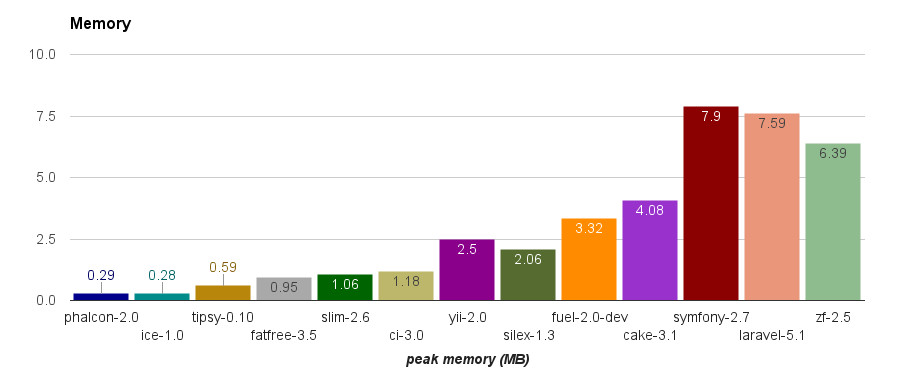
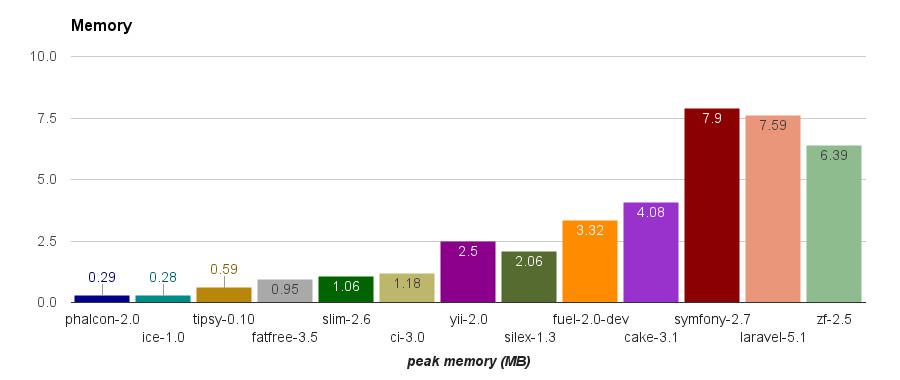
Benchmark, make sure images for v3 are loaded

diff --git a/app/modules/doc/views/pl/introduction/benchmark.md b/app/modules/doc/views/pl/introduction/benchmark.md
@@ -9,7 +9,7 @@ Sprzęt użyty do testowania jest następujący:
 * Dysk: SSD 120GB odczyt 540MB/s zapis 480MB/s
 
 #### Oprogramowanie
-* System operacyjny: openSUSE Tubmleweed 20151123 64-bit
+* System operacyjny: openSUSE Tubmleweed 20151128 64-bit
 * Kernel: 4.3.0
 * Serwer www: Nginx 1.8.0
 * PHP-FPM: 5.6.15
@@ -20,33 +20,33 @@ Sprzęt użyty do testowania jest następujący:
 ### Wyniki
 ##### Żądania na sekundę
 
-![RPS](/img/doc/benchmark.jpg)
+![RPS](/img/doc/benchmark.jpg?v3)
 
 ##### Użyta pamięć
 
-![Memory](/img/doc/benchmark2.jpg)
+![Memory](/img/doc/benchmark2.jpg?v3)
 
 ##### Czas wykonywania
 
-![Time](/img/doc/benchmark3.jpg)
+![Time](/img/doc/benchmark3.jpg?v3)
 
 ##### Dołączonych plików
 
-![Files](/img/doc/benchmark4.jpg)
+![Files](/img/doc/benchmark4.jpg?v3)
 
 ### Table
 |framework          |requests per second|relative|peak memory|relative|files|relative|
 |-------------------|------------------:|-------:|----------:|-------:|----:|-------:|
-|phalcon-2.0        |           4,399.94|   59.28|       0.29|    1.04|    5|    1.25|
-|ice-1.0            |           5,139.54|   69.25|       0.28|    1.00|    4|    1.00|
-|tipsy-0.10         |           1,388.20|   18.70|       0.59|    2.11|   18|    4.50|
-|fatfree-3.5        |             888.51|   11.97|       0.95|    3.39|    9|    2.25|
-|slim-2.6           |             709.04|    9.55|       1.06|    3.79|   24|    6.00|
-|ci-3.0             |             510.15|    6.87|       1.18|    4.21|   26|    6.50|
-|yii-2.0            |             334.60|    4.51|       2.50|    8.93|   49|   12.25|
-|silex-1.3          |             328.58|    4.43|       2.06|    7.36|   64|   16.00|
-|fuel-2.0-dev       |             141.78|    1.91|       3.32|   11.86|  128|   32.00|
-|cake-3.1           |             157.14|    2.12|       4.08|   14.57|   84|   21.00|
-|symfony-2.7        |              85.38|    1.15|       7.90|   28.21|  106|   26.50|
-|laravel-5.1        |              86.27|    1.16|       7.59|   27.11|   39|    9.75|
-|zf-2.5             |              74.22|    1.00|       6.39|   22.82|  204|   51.00|
+|phalcon-2.0        |           4,991.30|   87.06|       0.29|    1.04|    5|    1.25|
+|ice-1.0            |           6,139.83|  107.10|       0.28|    1.00|    4|    1.00|
+|tipsy-0.10         |           1,469.09|   25.63|       0.59|    2.11|   18|    4.50|
+|fatfree-3.5        |             900.31|   15.70|       0.95|    3.39|    9|    2.25|
+|slim-2.6           |             766.89|   13.38|       1.06|    3.79|   24|    6.00|
+|ci-3.0             |             556.66|    9.71|       1.18|    4.21|   26|    6.50|
+|yii-2.0            |             308.58|    5.38|       2.50|    8.93|   49|   12.25|
+|silex-1.3          |             287.22|    5.01|       2.06|    7.36|   64|   16.00|
+|fuel-2.0-dev       |             152.04|    2.65|       3.32|   11.86|  128|   32.00|
+|cake-3.1           |             162.30|    2.83|       4.08|   14.57|   84|   21.00|
+|symfony-2.7        |              96.14|    1.68|       7.90|   28.21|  106|   26.50|
+|laravel-5.1        |              86.77|    1.51|       7.59|   27.11|   39|    9.75|
+|zf-2.5             |              57.33|    1.00|       6.39|   22.82|  204|   51.00|

diff --git a/app/modules/doc/views/en/introduction/benchmark.md b/app/modules/doc/views/en/introduction/benchmark.md
@@ -9,7 +9,7 @@ The testing hardware environment is as follows:
 * Hard Drive: SSD 120GB Read 540MB/s Write 480MB/s
 
 #### Software
-* Operating System: openSUSE Tubmleweed 20151123 64-bit
+* Operating System: openSUSE Tubmleweed 20151128 64-bit
 * Kernel: 4.3.0
 * Web Server: Nginx 1.8.0
 * PHP-FPM: 5.6.15
@@ -20,33 +20,33 @@ The testing hardware environment is as follows:
 ### Results
 ##### Requests per second
 
-![RPS](/img/doc/benchmark.jpg)
+![RPS](/img/doc/benchmark.jpg?v3)
 
 ##### Peak memory
 
-![Memory](/img/doc/benchmark2.jpg)
+![Memory](/img/doc/benchmark2.jpg?v3)
 
 ##### Execution time
 
-![Time](/img/doc/benchmark3.jpg)
+![Time](/img/doc/benchmark3.jpg?v3)
 
 ##### Included files
 
-![Files](/img/doc/benchmark4.jpg)
+![Files](/img/doc/benchmark4.jpg?v3)
 
 ### Table
 |framework          |requests per second|relative|peak memory|relative|files|relative|
 |-------------------|------------------:|-------:|----------:|-------:|----:|-------:|
-|phalcon-2.0        |           4,399.94|   59.28|       0.29|    1.04|    5|    1.25|
-|ice-1.0            |           5,139.54|   69.25|       0.28|    1.00|    4|    1.00|
-|tipsy-0.10         |           1,388.20|   18.70|       0.59|    2.11|   18|    4.50|
-|fatfree-3.5        |             888.51|   11.97|       0.95|    3.39|    9|    2.25|
-|slim-2.6           |             709.04|    9.55|       1.06|    3.79|   24|    6.00|
-|ci-3.0             |             510.15|    6.87|       1.18|    4.21|   26|    6.50|
-|yii-2.0            |             334.60|    4.51|       2.50|    8.93|   49|   12.25|
-|silex-1.3          |             328.58|    4.43|       2.06|    7.36|   64|   16.00|
-|fuel-2.0-dev       |             141.78|    1.91|       3.32|   11.86|  128|   32.00|
-|cake-3.1           |             157.14|    2.12|       4.08|   14.57|   84|   21.00|
-|symfony-2.7        |              85.38|    1.15|       7.90|   28.21|  106|   26.50|
-|laravel-5.1        |              86.27|    1.16|       7.59|   27.11|   39|    9.75|
-|zf-2.5             |              74.22|    1.00|       6.39|   22.82|  204|   51.00|
+|phalcon-2.0        |           4,991.30|   87.06|       0.29|    1.04|    5|    1.25|
+|ice-1.0            |           6,139.83|  107.10|       0.28|    1.00|    4|    1.00|
+|tipsy-0.10         |           1,469.09|   25.63|       0.59|    2.11|   18|    4.50|
+|fatfree-3.5        |             900.31|   15.70|       0.95|    3.39|    9|    2.25|
+|slim-2.6           |             766.89|   13.38|       1.06|    3.79|   24|    6.00|
+|ci-3.0             |             556.66|    9.71|       1.18|    4.21|   26|    6.50|
+|yii-2.0            |             308.58|    5.38|       2.50|    8.93|   49|   12.25|
+|silex-1.3          |             287.22|    5.01|       2.06|    7.36|   64|   16.00|
+|fuel-2.0-dev       |             152.04|    2.65|       3.32|   11.86|  128|   32.00|
+|cake-3.1           |             162.30|    2.83|       4.08|   14.57|   84|   21.00|
+|symfony-2.7        |              96.14|    1.68|       7.90|   28.21|  106|   26.50|
+|laravel-5.1        |              86.77|    1.51|       7.59|   27.11|   39|    9.75|
+|zf-2.5             |              57.33|    1.00|       6.39|   22.82|  204|   51.00|
